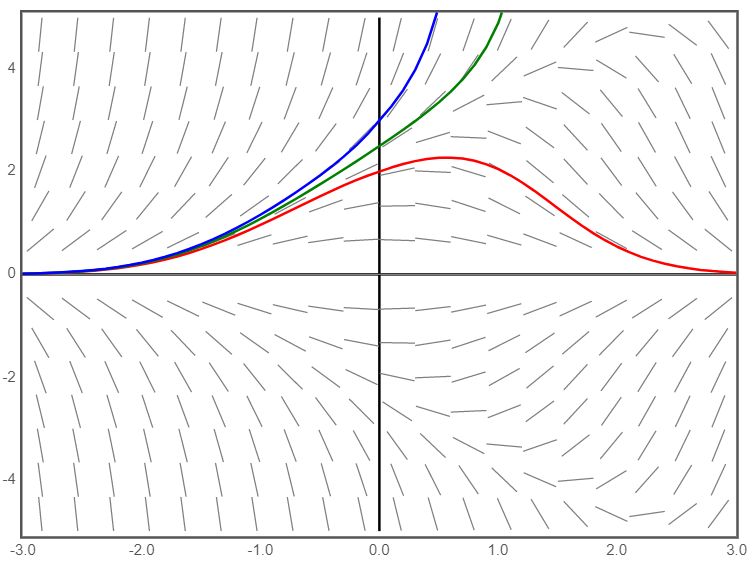
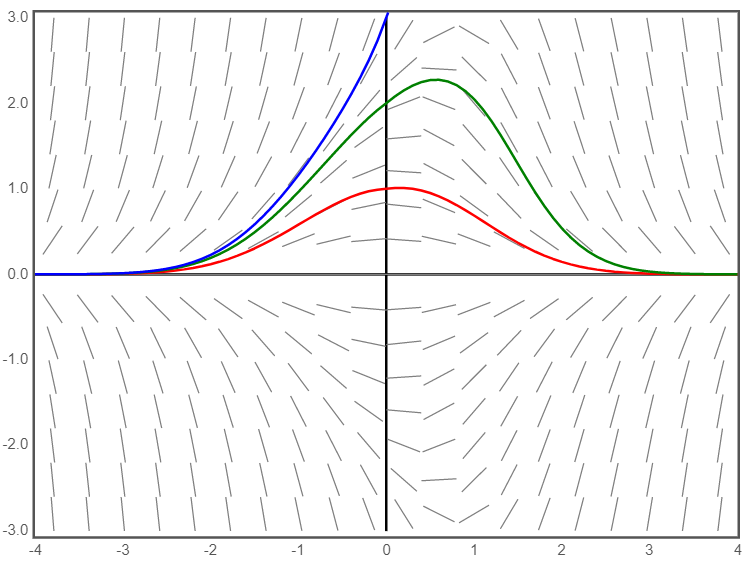
added more work to problem 2

diff --git a/index.html b/index.html
@@ -138,30 +138,33 @@
     $$y\left(\frac{3}{2}\right)=2.59351710664336$$
     $$y(2)=2.6622699286492$$
     $$y\left(\frac{5}{2}\right)=2.70518844985266$$
-    <h4>Plot the approximations at h=.1</h4>
-  
-    <div class="blank"></div>
 
-    <h3>Part C) h=0.025</h3>
-  
-    <h4>Answers</h4>
-    $$y\left(\frac{1}{2}\right)=2.29863798427263$$
-    $$y(1)=2.47902957749642$$
-    $$y\left(\frac{3}{2}\right)=2.59023973355631$$
-    $$y(2)=2.65957929689476$$
-    $$y\left(\frac{5}{2}\right)=2.70310002326473$$
+    <div class="lastParts">
+        <h3>Part C)</h3>
+        <h3>h=0.025</h3>
+    
+        <h4>Answers</h4>
+        $$y\left(\frac{1}{2}\right)=2.29863798427263$$
+        $$y(1)=2.47902957749642$$
+        $$y\left(\frac{3}{2}\right)=2.59023973355631$$
+        $$y(2)=2.65957929689476$$
+        $$y\left(\frac{5}{2}\right)=2.70310002326473$$
 
-    <div class="blank"></div>
-    <h3>Part D) h=0.01</h3>
+    </div>
+    
+    <div class="lastParts">
+        <h3>Part D)</h3>
+        <h3> h=0.01</h3>
   
-    <h4>Answers</h4>
-    $$y\left(\frac{1}{2}\right)=2.29686258733234$$
-    $$y(1)=2.47690855658606$$
-    $$y\left(\frac{3}{2}\right)=2.58829723261312$$
-    $$y(2)=2.65797708416176$$
-    $$y\left(\frac{5}{2}\right)=2.70310002326473$$
-
-    <div class="blankSmall"></div>
+        <h4>Answers</h4>
+        $$y\left(\frac{1}{2}\right)=2.29686258733234$$
+        $$y(1)=2.47690855658606$$
+        $$y\left(\frac{3}{2}\right)=2.58829723261312$$
+        $$y(2)=2.65797708416176$$
+        $$y\left(\frac{5}{2}\right)=2.70310002326473$$
+    
+    </div>
+    
     
     
    
@@ -180,7 +183,6 @@
 
     <script src="connected_scatter.js"></script>
 
-    note: 
     <li>h1=> h=.1</li>
     <li>h2=> h=.05</li>
     <li>h3=> h=.025</li>
@@ -190,16 +192,14 @@
 
     <h2> Comments on the behavior</h2>
     <div class="blankSmall"></div>
-    <p> When different values of h are used for the approximation,
-        it is clear that the approximations become more similar on each value of t,
-        implying that with smallervalues of h, that you are getting closer to a single solution </p>
+
     <div class="blankSmall"></div>
 
-    <p> This effect can be seen when the values of the approxximation are plotted and compared at each level of h</p>
 
     <div class="blank"></div>
     <div class="blank"></div>
     <div class="blank"></div>
+
     <h2> Problem 2 </h2>
     In this problem, we are concerned with the following initial value problem:
     $$y^{\prime}=-t y+0.1 y^{3}, \quad y(0)=\alpha$$
@@ -207,6 +207,19 @@
     <p>This differential equation can be represented by the vector field below:</p>
     <img src="slope_field_no_extra_lines.png" alt="slope_field_no_lines_problem_2">
 
+    <h3>Part A</h3>
+
+    <p> When we plug in different values for alpha between 1 and 4 we get lines of different behaviors</p>
+    <img src="slope_field.png" alt="slope_field_with_lines">
+    <p>The red line represents alpha = 1</p>
+    <p>The green line represents alpha = 2</p>
+    <p>The blue line represents alpha = 3</p>
+    
+    <h3>Part B</h3>
+    <p> It is clear that there is some value between 2 and 3 where</p>
+
+    <img src="slope_field_approximation.png" alt="slope_field_approximation">
+    <p>Last black line is alpha = 2.3714</p>
     
 </body>
 

diff --git a/connected_scatter.js b/connected_scatter.js
@@ -1,7 +1,7 @@
 // set the dimensions and margins of the graph
 var margin = {top: 10, right: 100, bottom: 30, left: 30},
-    width = 2*600 - margin.left - margin.right,
-    height = 800 - margin.top - margin.bottom;
+    width = 600 - margin.left - margin.right,
+    height = 600 - margin.top - margin.bottom;
 
 // append the svg object to the body of the page
 var svg = d3.select("#my_dataviz")

diff --git a/css/mycss.css b/css/mycss.css
@@ -9,11 +9,23 @@ div.blankSmall{
     border:outline 5px;
 }
 
+div.lastParts{
+    display:inline-block;
+    margin: 40px;
+}
+
 body{
 
     text-align:center;
 
     font-size: 15px;
+}
+
+
+img{
+    width:540px; /* you can use % */
+    height: auto;
+    margin:20px;
 }
 
 p1{
@@ -23,3 +35,4 @@ p1{
 p2 {
     display: inline-block;
 }
+
